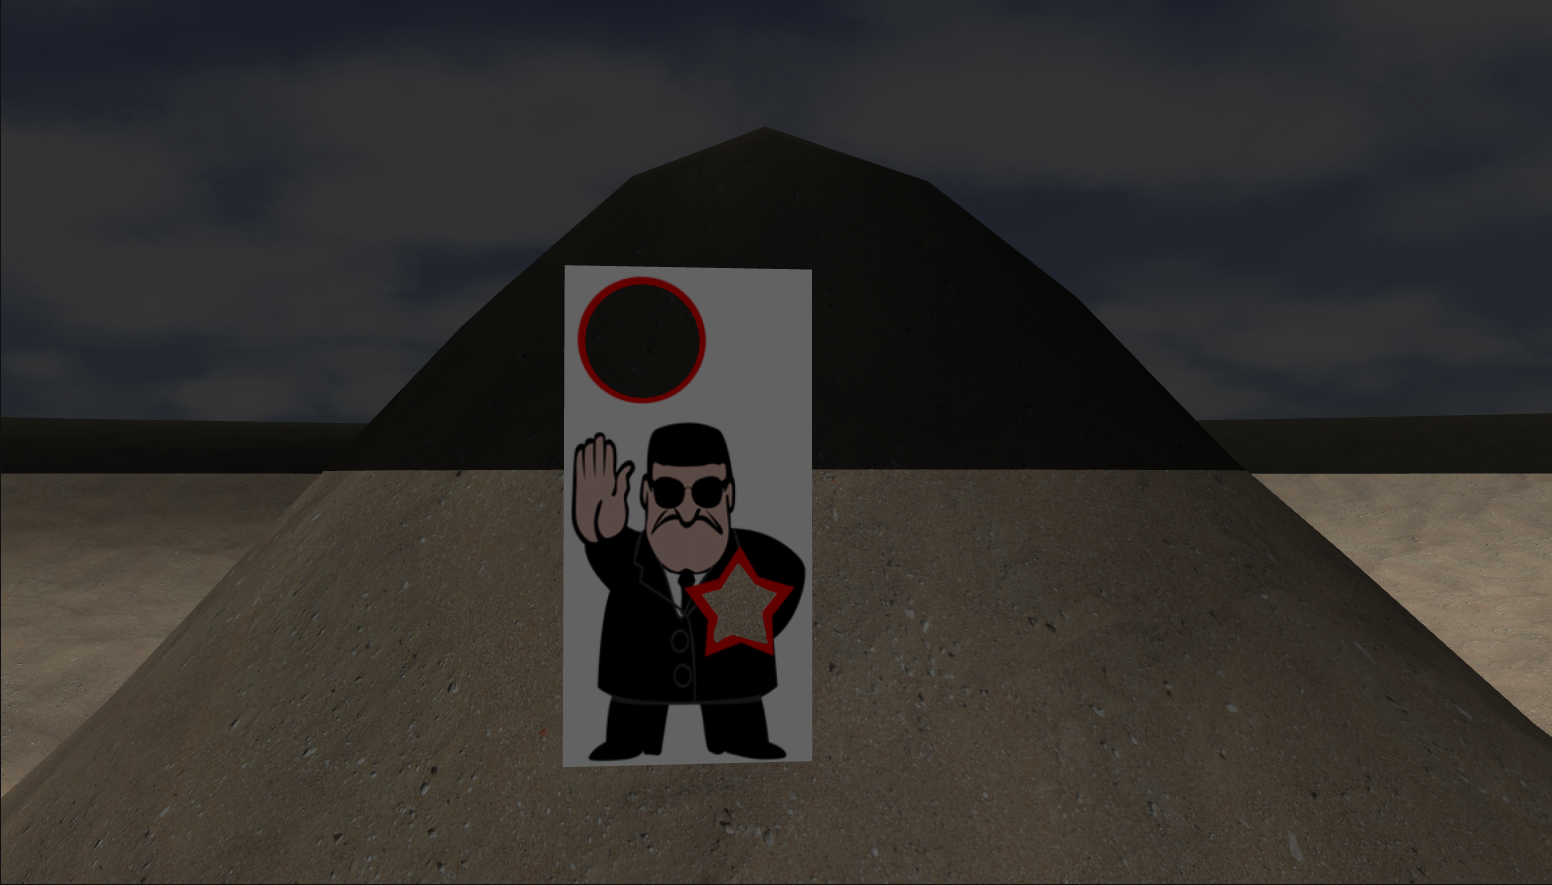
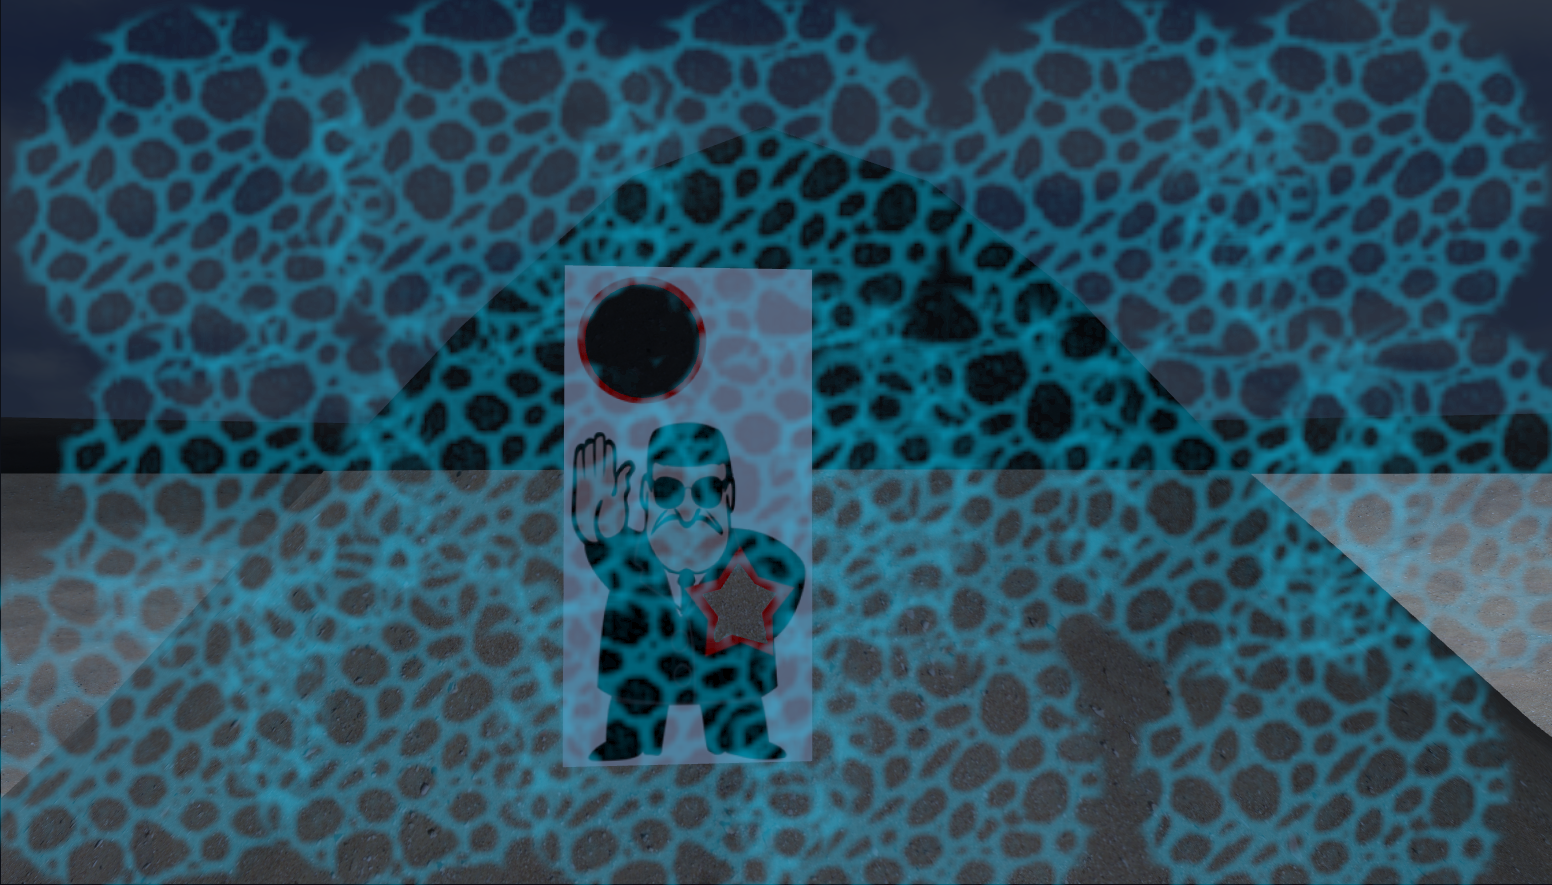
updated torpedo vision before next experiment

diff --git a/src/riptide_autonomy/vision/torpedo_vision.py b/src/riptide_autonomy/vision/torpedo_vision.py
@@ -1,32 +1,84 @@
 #! /usr/bin/env python3
 
-from http.client import HTTP_VERSION_NOT_SUPPORTED
 import cv2
 import sys
-from math import sqrt
+import numpy as np
+import math
 
-from numpy import isposinf
-
-DEBUG = False
+DEBUG = True
 
 def dist(pt1, pt2):
-    return sqrt((pt1[0] * pt1[0]) + (pt2[0] * pt2[0]))
+    return math.sqrt((pt1[0] * pt1[0]) + (pt2[0] * pt2[0]))
+
+
+def angle(pt1, pt2):
+    y = pt2[1] - pt1[1]
+    x = pt2[0] - pt1[0]
+    return math.atan(y / x)
+
+
+#looks for corners in big shapes. this method may not work for corners in small shapes
+def numCorners(contour):
+    arclength = cv2.arcLength(contour, True)
+    corners = cv2.approxPolyDP(contour, 0.02 * arclength, True)
+    corners = np.insert(corners, len(corners), corners[0], 0) #add first corner so that it is processed with the last as a segment
+    # count = 0
+        
+    longSegments = []
+    for i in range(1, len(corners)):
+        prev = corners[i-1][0]
+        curr = corners[i][0]
+        if dist(prev, curr) > 250:
+            longSegments.append([prev, curr])
+            
+    # longSegments.append(longSegments[0])
+    
+    # for i in range(1, len(longSegments)):
+    #     seg1 = longSegments[i-1]
+    #     seg2 = longSegments[i]
+        
+    #     ang1 = angle(seg1[0], seg1[1])
+    #     ang2 = angle(seg2[0], seg2[1])
+                
+    #     if abs(math.degrees(ang1 - ang2)) > 35:
+    #         count += 1
+    
+    # return count
+    return len(longSegments)
+    
+
+# def specialThreshold(img, lowerH, upperH):
+#     for row in img:
+#         for col in row: #col is [h, s, v]
+#             if col[2] > lowerH and col[2] < upperH:
+#                 col[0] = 255
+#                 col[1] = 255
+    
+#     return img
 
 
 def isPotentialTarget(contour):
-    x, y, w, h = cv2.boundingRect(contour)
+    (x, y), (w, h), a = cv2.minAreaRect(contour)
                 
+    # if x + (w/2) > 800 and y + (h/2) > 600 and x + (w/2) < 900:
+    #     print("{}, {}: area: {}".format(x+(w/2), y+(h/2), w*h))
+    
     #first test: is the object big enough?
-    if w * h > 500:
+    if w * h > 5000:
         #second test: is the object smooth enough?
         #a "smooth" object's convex hull length will be roughly equal to the length of the actual contour.
         hull = cv2.convexHull(contour)
         contourLength = cv2.arcLength(contour, True)
         hullLength = cv2.arcLength(hull, True)
         lengthRatio = contourLength / hullLength
+        corners = numCorners(contour)
+        # print("{}, {}: corners: {}, area: {}, length ratio: {}, aspect ratio: {}".format(x + (w/2), y + (h/2), corners, w*h, lengthRatio, w/h))
         if abs(1 - lengthRatio) < 0.2:
             #third test: is the aspect ratio good?
-            if abs(1 - (w / h)) < 0.2:
+            if abs(1 - (w / h)) < 0.3:
+                #fourth test: does it have the proper number of sides? TODO: figure out if this test is reliable
+                # corners = numCorners(contour)
+                # if corners == 10 or corners == 8 or corners == 4:
                 return True
 
     return False
@@ -36,64 +88,75 @@ def getTargets(contours, hierarchy, i=0):
     targets = []
     contour = contours[i]
     
-    if isPotentialTarget(contour):
-        #TODO: do this better. should check all contours on that child level for target-ness and there should be exactly one that is a potential target. dont just test the first child
-        if hierarchy[i][2] > -1 and isPotentialTarget(contours[ hierarchy[i][2] ]): #check that first (should be the only) child is also a target
-            targets.append(contour)
+    if isPotentialTarget(contour) and hierarchy[i][2] > -1:
+        targets.append(contour)
     elif hierarchy[i][2] > -1: #search children if the current contour is not a target
         targets += getTargets(contours, hierarchy, hierarchy[i][2])
     
-    if hierarchy[i][0] > -1:
+    if hierarchy[i][0] > -1: #go to next contour
         targets += getTargets(contours, hierarchy, hierarchy[i][0])
         
     return targets
 
 
 def main():
-    types = ["gman", "bootlegger"]
-    for t in types:
+    for t in ["gman", "bootlegger"]:
         for i in range(1, 6):
             name = "testimages/" + t + "_" + str(i) + ".png"
+            # name = "testimages/bootlegger_4.png"
             img = cv2.imread(name)
             out = img.copy()
             
-            _, img = cv2.threshold(img, 50, 255, cv2.THRESH_BINARY)
-            img = cv2.blur(img, (5, 5))
-            bin = cv2.inRange(img, (0, 0, 100), (100, 100, 255))
-            # edges = cv2.Canny(bin, 100, 200)
-            edges = bin.copy()
-            contours, hierarchy = cv2.findContours(edges, cv2.RETR_CCOMP, cv2.CHAIN_APPROX_NONE)
-            hierarchy = hierarchy[0]
-            
+            blurred = cv2.blur(img, (5, 5)) #needed to get rid of any grainy noise that might exist before edge detection
+            edges = cv2.Canny(blurred, 15, 160)
+            edges = cv2.dilate(edges, cv2.getStructuringElement(cv2.MORPH_RECT, (3, 3)))
             edgesColor = cv2.cvtColor(edges, cv2.COLOR_GRAY2BGR)
+            contours, hierarchy = cv2.findContours(edges, cv2.RETR_TREE, cv2.CHAIN_APPROX_NONE)
             
-            n = 0
-            approvedContours = getTargets(contours, hierarchy)
-                            
-            for contour in approvedContours:
-                #image markup stuff
+            for contour in contours:
                 x, y, w, h = cv2.boundingRect(contour)
-                n = n + 1
-                                
-                cv2.drawContours(edgesColor, contour, -1, (0, 255, 0), 2)
-                cenX = x + (w/2)
-                cenY = y + (h/2)
-                cv2.circle(out, (int(cenX), int(cenY)), 1, (0, 0, 255), 2)
-                cv2.putText(out, str(n), (int(cenX), int(cenY)), cv2.FONT_HERSHEY_SIMPLEX, 1, (255, 0, 0))  
+                cv2.circle(edgesColor, (int(x + (w/2)), int(y + (h/2))), 2, (0, 255, 0), 2)
+                
+                corns = numCorners(contour)
+                cv2.putText(edgesColor, str(corns), (int(x + (w/2)), int(y + (h/2))), cv2.FONT_HERSHEY_SIMPLEX, 1, (0, 255, 0))
             
+            if len(contours) > 0:
+                hierarchy = hierarchy[0]
+                                
+                n = 0
+                approvedContours = []
+                approvedContours = getTargets(contours, hierarchy)
+                                
+                for contour in approvedContours:
+                    #image markup stuff
+                    x, y, w, h = cv2.boundingRect(contour)
+                    n = n + 1
+                    
+                    #tmp TODO: remove
+                    arclength = cv2.arcLength(contour, True)
+                    segments = cv2.approxPolyDP(contour, 0.02 * arclength, True)
+                    for segment in segments:
+                        cv2.circle(out, (segment[0][0], segment[0][1]), 2, (255, 0, 0), 2)
+                    
+                    # corners = numCorners(contour)
+                    # print("{}: {}".format(n, corners))
+                                                                                    
+                    cv2.drawContours(edgesColor, contour, -1, (0, 255, 0), 2)
+                    cenX = x + (w/2)
+                    cenY = y + (h/2)
+                    cv2.circle(out, (int(cenX), int(cenY)), 1, (0, 0, 255), 2)
+                    cv2.putText(out, str(n), (int(cenX), int(cenY)), cv2.FONT_HERSHEY_SIMPLEX, 1, (255, 0, 0))
+        
             #for debug stuff
             if DEBUG:
                 cv2.imshow("original", img)
-                cv2.imshow("binary", bin)
                 cv2.imshow("processed", edgesColor)
-
-                cv2.waitKey(5)
                 
-            cv2.imshow(t + " " + str(i), out)
+            cv2.imshow(name, out)
+            cv2.waitKey()
             
 
 if __name__ == '__main__': #start here
-    print("bruh program")
     sys.setrecursionlimit(2500) #this is needed because getTargets() uses some monster recursion to go through the contour tree
     main()
     cv2.waitKey()
